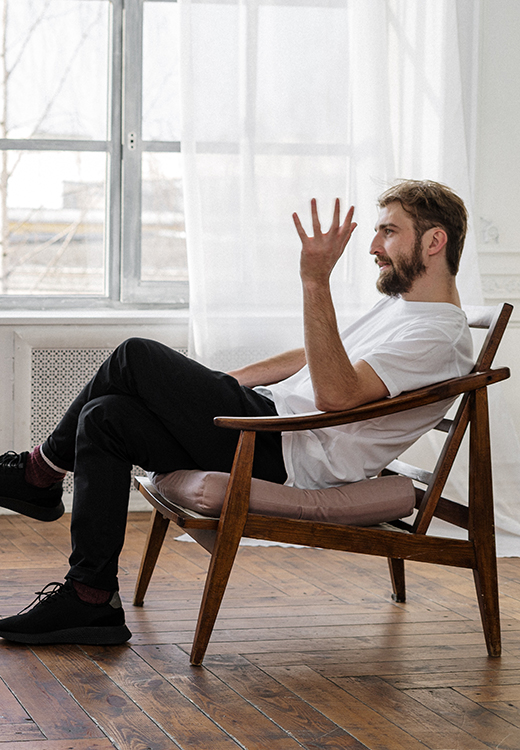
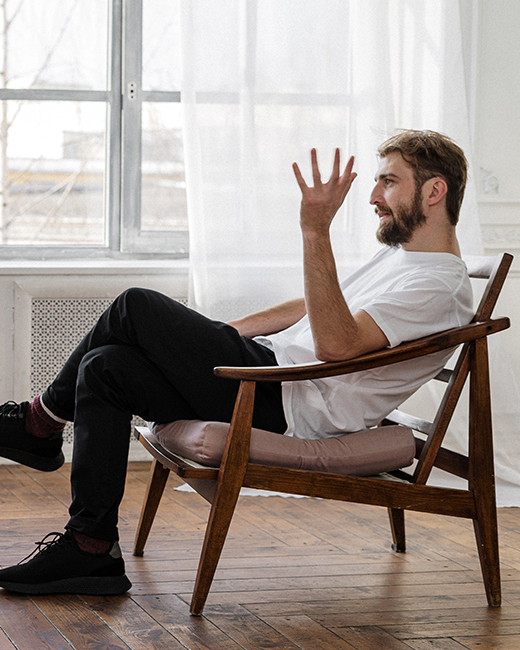
Modificações na página de currículo e entrevista
Modificação no conteúdo do documento HTML, CSS e resolução das imagens.

diff --git a/src/app/curriculo-entrevista/curriculo-entrevista.component.html b/src/app/curriculo-entrevista/curriculo-entrevista.component.html
@@ -6,44 +6,45 @@
     </head>
 
     <body>
+        <h1>Currículo</h1>
+        Reservado... Texto...<br>
         <h1>Como se preparar para uma entrevista?</h1>
-
-            <h2>Vista-se adequadamente.</h2>>
             <table>
                 <tbody>
                     <tr>
-                        <td>Em qualquer entrevista, seja presencial ou on-line, vista se adequadamente; uma camisa polo e calças já são o suficiente, não é necessário terno, paletó e gravata. Cabelo cortado e barba bem feita para homens e maquiagem leve e cabelo penteado para mulheres, além de transmitirem assiduidade, também demonstram o autocuidado que você tem consigo. Vestir se adequadamente é importante, não apenas pela aparência, mas em uma entrevista remota, on-line, é possível ser necessário se levantar e você pode não estar vestido adequadamente da cintura para baixo. Isso ocorre com frequência com os candidatos e além de deixá-los embaraçados, pode eliminá-los do processo seletivo.</td>
-                        <td><img src="pexels-daniel-duarte-13884593.jpg"/></td>
+                        <td><h2>Vista-se adequadamente.</h2><br>Em qualquer entrevista, seja presencial ou on-line, vista se adequadamente; uma camisa polo e calças já são o suficiente, não é necessário terno, paletó e gravata. Cabelo cortado e barba bem feita para homens e maquiagem leve e cabelo penteado para mulheres, além de transmitirem assiduidade, também demonstram o autocuidado que você tem consigo. Vestir se adequadamente é importante, não apenas pela aparência, mas em uma entrevista remota, on-line, é possível ser necessário se levantar e você pode não estar vestido adequadamente da cintura para baixo. Isso ocorre com frequência com os candidatos e além de deixá-los embaraçados, pode eliminá-los do processo seletivo.</td>
+                        <td class="esquerda"><img src="pexels-daniel-duarte-13884593.jpg"/></td>
                     </tr>
                 </tbody>
             </table>
-
-            <h2>Pesquise sobre a empresa.</h2>>
             <table>
                 <tbody>
                     <tr>
-                        <td><img src="pexels-vlada-karpovich-4050319.jpg"/></td>
-                        <td>Após ter se candidatado, tente pesquisa sobre a empresa: sua cultura, seus valores, seu estatuto e sua missão. Cada vez mais, as organizações têm se atentado ao engajamento dos seus funcionários, pois isso reflete diretamente no desempenho deles e da empresa. Além de corresponder aos requisitos do que a vaga pede, também é essencial você concordar com a cultura e os valores da empresa. Isso é essencial para encontrar propósito no seu trabalho.</td>
+                        <td class="direita"><img src="pexels-vlada-karpovich-4050319.jpg"/></td>
+                        <td><h2>Pesquise sobre a empresa.</h2><br>Após ter se candidatado, tente pesquisa sobre a empresa: sua cultura, seus valores, seu estatuto e sua missão. Cada vez mais, as organizações têm se atentado ao engajamento dos seus funcionários, pois isso reflete diretamente no desempenho deles e da empresa. Além de corresponder aos requisitos do que a vaga pede, também é essencial você concordar com a cultura e os valores da empresa. Isso é essencial para encontrar propósito no seu trabalho.</td>
                     </tr>
                 </tbody>
             </table>
-            <h2>Leia atentamente a descrição da vaga.</h2>>
             <table>
                 <tbody>
                     <tr>
-                        <td>Muitos candidatos cometem o erro de não ler atentamente a descrição da vaga e são eliminados por não corresponderem aos requisitos. Além disso, estar ciente dos requisitos e benefícios oferecidos demonstra a sua vontade de trabalhar e o seu comprometimento.</td>
-                        <td><img src="pexels-ron-lach-9832698.jpg"/></td>
+                        <td><h2>Leia atentamente a descrição da vaga.</h2><br>Muitos candidatos cometem o erro de não ler atentamente a descrição da vaga e são eliminados por não corresponderem aos requisitos. Além disso, estar ciente dos requisitos e benefícios oferecidos demonstra a sua vontade de trabalhar e o seu comprometimento.</td>
+                        <td class="esquerda"><img src="pexels-ron-lach-9832698.jpg"/></td>
                     </tr>
                 </tbody>
             </table>
-            <h2>Treine a sua apresentação.</h2>>
             <table>
                 <tbody>
                     <tr>
-                        <td><img src="pexels-cottonbro-4101143.jpg"/></td>
-                        <td>Seja em entrevistas em grupo ou individuais, é necessário fazer uma apresentação pessoal destacando suas habilidades, qualidades, fraquezas e como você lida com isso. Então, revisar seu currículo e escrever como você pode falar de si mesmo pode ser interessante. Não apenas destacar suas habilidades técnicas, mas justamente as soft skills. Revisar a sua história de vida e reconhecer o que você tem e o que a empresa quer.</td>
+                        <td class="direita"><img src="pexels-cottonbro-4101143.jpg"/></td>
+                        <td><h2>Treine a sua apresentação.</h2><br>Seja em entrevistas em grupo ou individuais, é necessário fazer uma apresentação pessoal destacando suas habilidades, qualidades, fraquezas e como você lida com isso. Então, revisar seu currículo e escrever como você pode falar de si mesmo pode ser interessante. Não apenas destacar suas habilidades técnicas, mas justamente as soft skills. Revisar a sua história de vida e reconhecer o que você tem e o que a empresa quer.</td>
                     </tr>
                 </tbody>
             </table>
+            <br>
+            <br>
+            <br>
+        <h3>Referências:</h3>
+        SAMPAIO, Caio. 30 dicas de como se comportar em uma entrevista de emprego. Zety, 2022. Disponível em: <a href="https://zety.com/br/blog/como-se-comportar-em-uma-entrevista-de-emprego">Link</a>. Acesso em: 15 de outubro de 2022.
     </body>
 </html>

diff --git a/src/app/curriculo-entrevista/curriculo-entrevista.component.css b/src/app/curriculo-entrevista/curriculo-entrevista.component.css
@@ -2,20 +2,32 @@
 {
     padding-top: 60px;
 }
+h2 {
+    margin-bottom: 1px;
+}
+h3 {
+    margin-bottom: 2px;
+}
+td.direita {
+    padding-right: 20px;
+} 
+td.esquerda {
+    padding-left: 20px;
+}
 table, tr, td {
     border: none;
-    padding: 2px;
-    font-size: 15px;
+    font-size: 16px;
 }
     img {
     width: 208px;
-    height: 300px;
+    height: 260px;
 }
     td {
     text-align: justify;
     text-justify: inter-word;
 }
     body {
+    font-family: sans-serif;
     margin-top: 10px;
     margin-bottom: 10px;
     margin-right: 350px;
